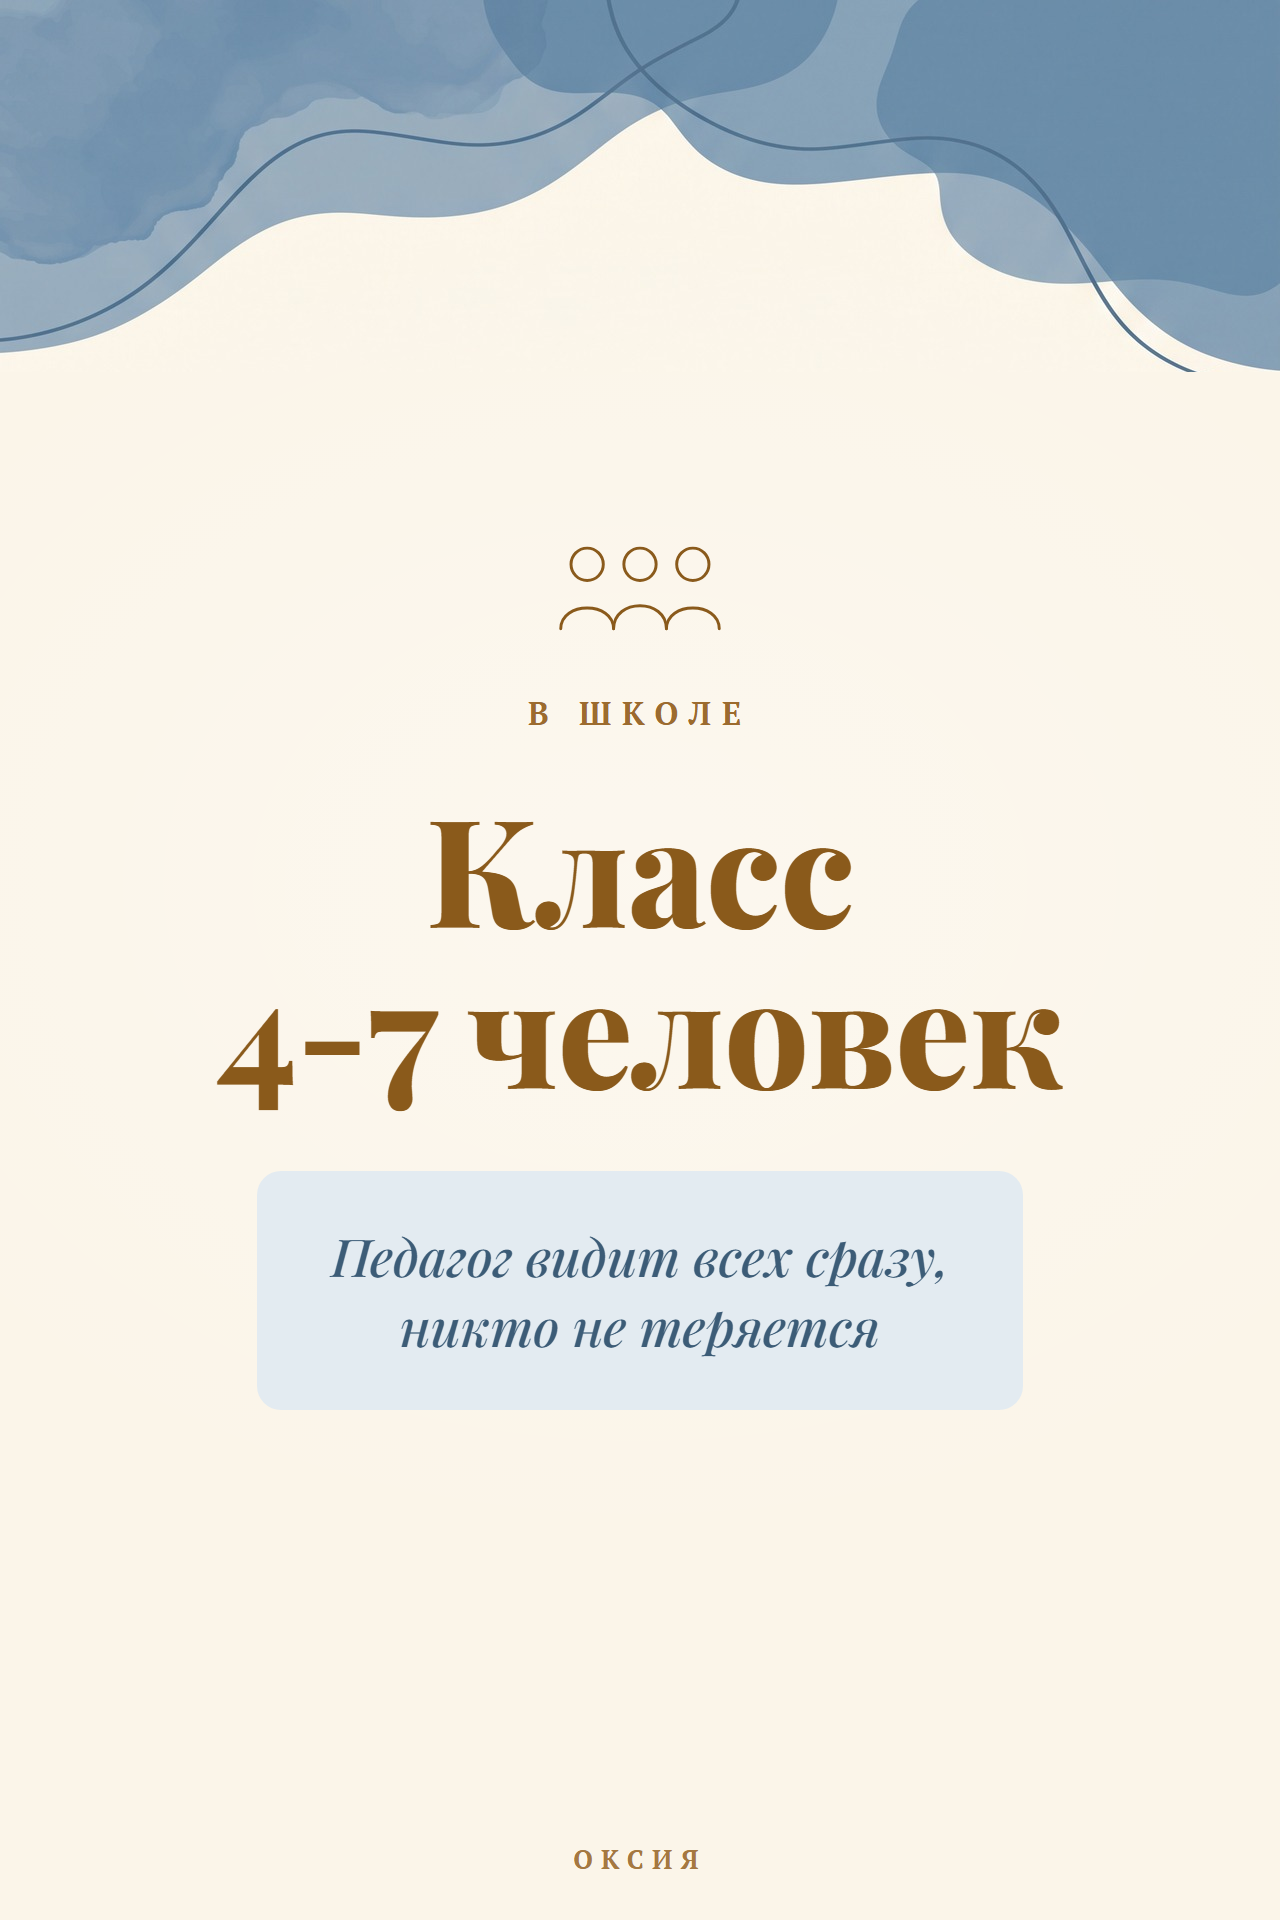
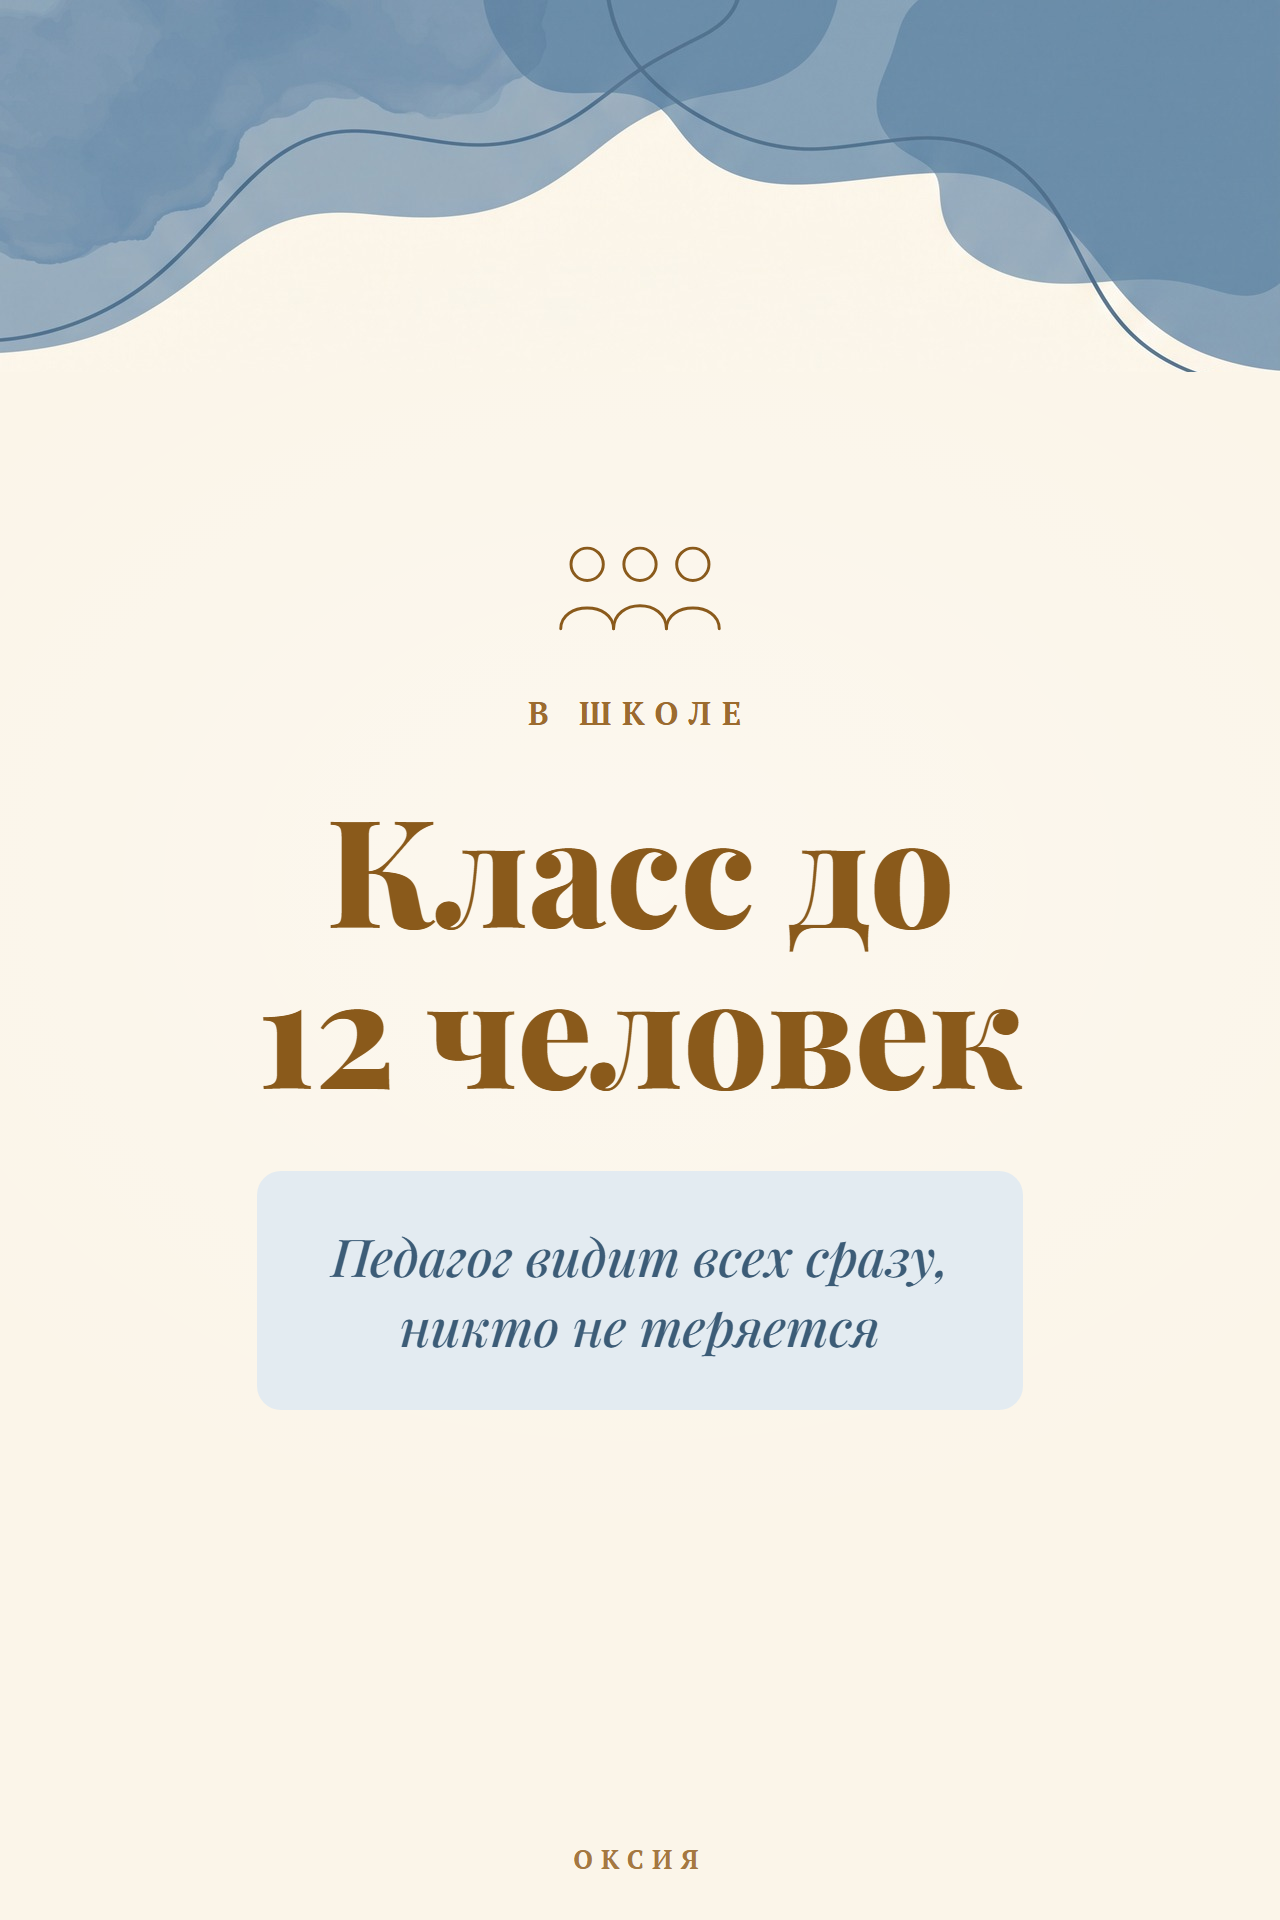
Истории: правки по её замечаниям — телефон одной строкой, размер класса «до 12»
- slide.html n52: телефон «+7 (921) 556-07-24» одной строкой (не переносить номера).
- n11 / n41 / n42: «4-7 детей/человек» → «до 12» (как в прайс-листе).
- index.html и story-preview: подписи слайдов синхронизированы.

Changed region(s): [[0.1562, 0.4062, 0.8438, 0.5938]]

diff --git a/story-preview/_build/slide.html b/story-preview/_build/slide.html
@@ -243,7 +243,7 @@ const S = {
   <h1 class="disp">Семейные классы</h1>
   <div class="sub">начальная школа полного дня</div>
   <div class="chip">Маленький класс, где педагог<br>видит каждого ребёнка</div>
-  <div class="facts">методика РКШ · 4-7 детей в классе</div>` },
+  <div class="facts">методика РКШ · до 12 детей в классе</div>` },
 
 12:{ bg:'top', icon:I.book, isize:'150px', ds:'108px', html:`
   <div class="kick">Что это</div>
@@ -427,13 +427,13 @@ const S = {
 41:{ bg:'bottom', icon:I.clock, isize:'146px', ds:'132px', html:`
   <div class="kick">Как проходят занятия</div>
   <h1 class="disp">День идёт<br>по расписанию</h1>
-  <div class="sub">группы 4-7 человек</div>
+  <div class="sub">класс до 12 человек</div>
   <div class="chip">Перерывы, прогулка и домашние<br>задания по возрасту</div>
   <div class="facts">короткая обратная связь родителям</div>` },
 
 42:{ bg:'top', icon:I.people, isize:'182px', ds:'150px', html:`
   <div class="kick">В школе</div>
-  <h1 class="disp">Класс<br>4-7 человек</h1>
+  <h1 class="disp">Класс до<br>12 человек</h1>
   <div class="chip">Педагог видит всех сразу,<br>никто не теряется</div>` },
 
 43:{ bg:'bottom', align:'left', icon:I.clock, isize:'146px', ds:'108px', html:`
@@ -489,9 +489,9 @@ const S = {
   </div>
   <div class="phone">+7 (921) 556-07-24</div>` },
 
-52:{ bg:'top', icon:I.phone, isize:'128px', ds:'132px', html:`
+52:{ bg:'top', icon:I.phone, isize:'128px', ds:'96px', html:`
   <div class="kick">Телефон</div>
-  <h1 class="disp">+7 (921)<br>556-07-24</h1>
+  <h1 class="disp">+7 (921) 556-07-24</h1>
   <div class="cap">один номер: звонок, Telegram, MAX</div>` },
 
 53:{ bg:'bottom', align:'left', icon:I.house, isize:'150px', ds:'138px', html:`

diff --git a/index.html b/index.html
@@ -454,7 +454,7 @@ footer{margin-top:56px; padding-top:22px; border-top:1px solid var(--border); co
     <summary>5. Как проходят занятия — 10 слайдов</summary>
     <div class="stories-grid">
       <div class="story-card"><img src="images/img005.jpg" alt="Слайд 1"><div class="cap">1. Обложка</div></div>
-      <div class="story-card"><img src="images/img057.jpg" alt="Слайд 2"><div class="cap">2. Класс 4-7 человек</div></div>
+      <div class="story-card"><img src="images/img057.jpg" alt="Слайд 2"><div class="cap">2. Класс до 12 человек</div></div>
       <div class="story-card"><img src="images/img058.jpg" alt="Слайд 3"><div class="cap">3. Уроки, перерывы, прогулка</div></div>
       <div class="story-card"><img src="images/img059.jpg" alt="Слайд 4"><div class="cap">4. По возрасту, по программе</div></div>
       <div class="story-card"><img src="images/img060.jpg" alt="Слайд 5"><div class="cap">5. Обратная связь каждый день</div></div>

diff --git a/story-preview/index.html b/story-preview/index.html
@@ -102,7 +102,7 @@
   <p class="meta">расписание дня, группы, домашние задания, обратная связь</p>
   <div class="grid">
     <div class="card"><img src="slides/n41.png" alt="1"><div class="cap">1. Обложка</div></div>
-    <div class="card"><img src="slides/n42.png" alt="2"><div class="cap">2. Класс 4-7 человек</div></div>
+    <div class="card"><img src="slides/n42.png" alt="2"><div class="cap">2. Класс до 12 человек</div></div>
     <div class="card"><img src="slides/n43.png" alt="3"><div class="cap">3. Уроки, перерывы, прогулка</div></div>
     <div class="card"><img src="slides/n44.png" alt="4"><div class="cap">4. По возрасту, по программе</div></div>
     <div class="card"><img src="slides/n45.png" alt="5"><div class="cap">5. Обратная связь каждый день (инверт)</div></div>
